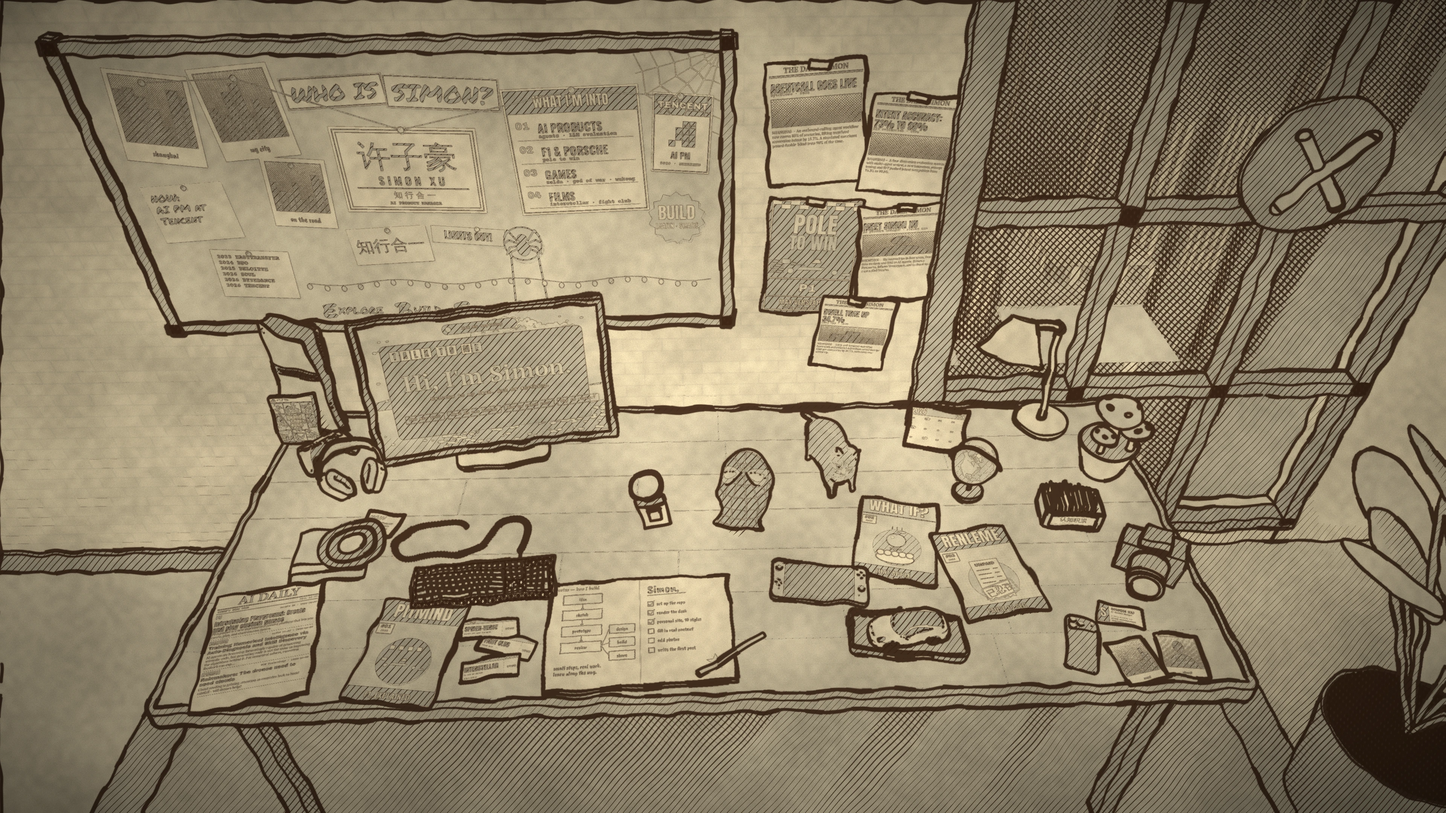
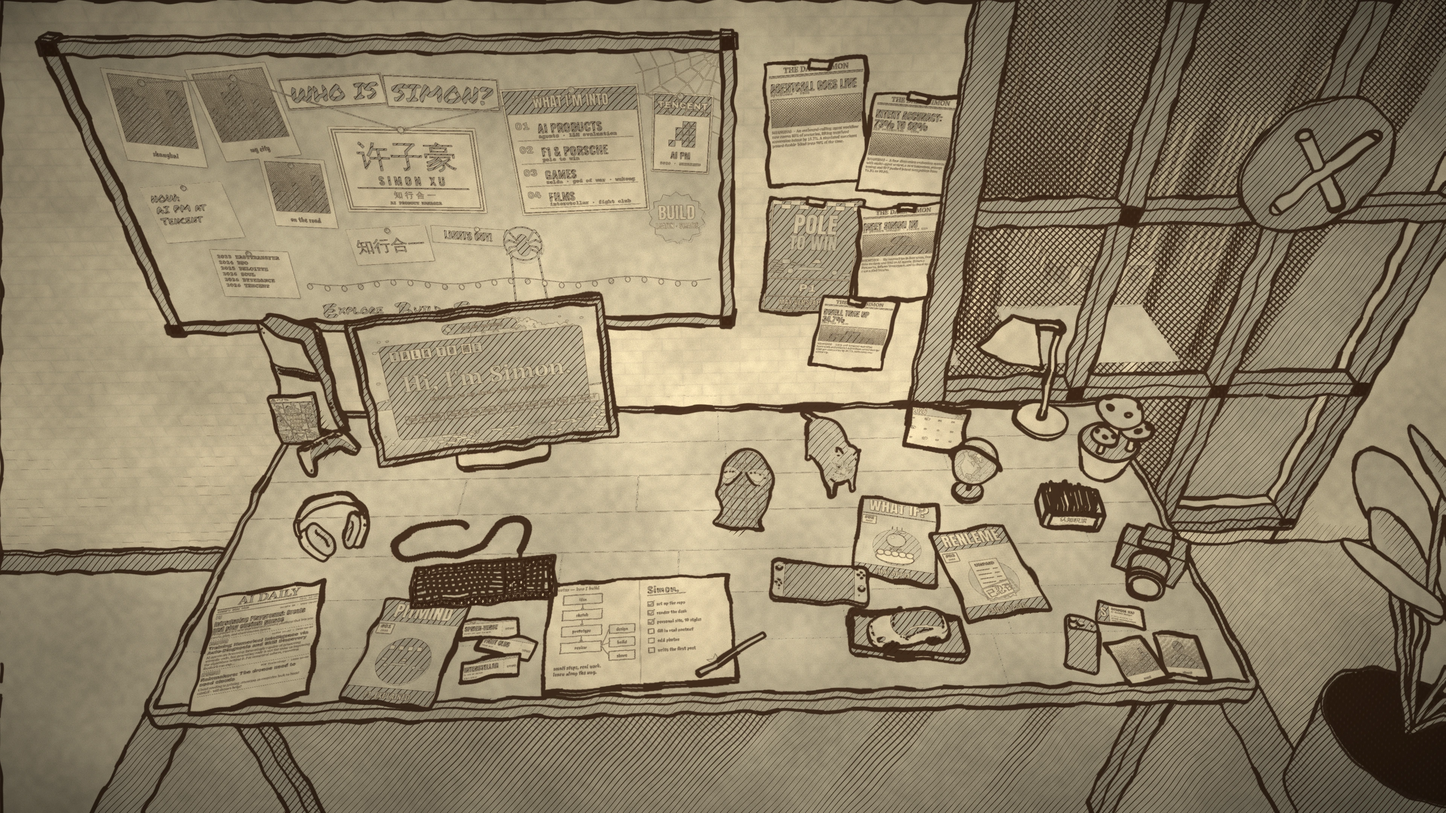
Declutter repeated desk items (#5)
* Scaffold Next.js personal site based on EdwinjJ1/personal-website

Static-export Next.js 15 site with home, about, projects, blog and
photography pages, a zh/en language switch, light/dark themes with the
WebGL starfield backdrop, placeholder content in src/data, and a GitHub
Pages deploy workflow.

Claude-Session: https://claude.ai/code/session_019ggxabgDhCYUh62LeLnHLD

* Switch to the 3D desk site from EdwinjJ1/personal-website 002

Replace the Next.js portfolio with the Blender desk + ten-style WebGL
site. The original author's text, photos, project art, logo and resume
details are removed and replaced with placeholders; hotspots are renamed
to generic ones (zine-1..4, badge, plant, table-model) and the club mascot
is dropped. Textures now use bundled OFL fonts so they build on any OS,
web fonts are self-hosted, and the chat falls back to canned answers until
a Worker is deployed. Renders (site/assets/styles, hot.png, scene.json)
are not generated yet.

Claude-Session: https://claude.ai/code/session_019ggxabgDhCYUh62LeLnHLD

* Remove the original author's journal API address and keychain name

Claude-Session: https://claude.ai/code/session_019ggxabgDhCYUh62LeLnHLD

* Redesign desk objects for a self-showcase site

Remove the trophies, GitHub city, round-table model and echo puck. Add a
mini race track with a Porsche, a year-in-review calendar, a globe, movie
ticket stubs, an index-card box for podcasts and WeChat reads, a sleeping
[…]

Changed region(s): [[0.1875, 0.5273, 0.2812, 0.7134], [0.4375, 0.5583, 0.4688, 0.6514]]

diff --git a/site/js/content.js b/site/js/content.js
@@ -25,17 +25,14 @@ export const HOTS = {
   keyboard: { action: 'chat' },
   mask: { action: 'style' },
   'zine-1': { panel: 'project1' },
-  phone: { panel: 'project3' },
   'zine-2': { panel: 'project2' },
   'zine-3': { panel: 'project3' },
   notebook: { panel: 'blog' },
   plant: { panel: 'interests' },
-  badge: { panel: 'work' },
   news: { panel: 'news' },
   photos: { panel: 'photos' },
   games: { panel: 'games' },
   music: { panel: 'music' },
-  headphones: { panel: 'music' },
   contact: { panel: 'contact' },
   camera: { panel: 'photos' },
   cars: { panel: 'cars' },
@@ -44,7 +41,6 @@ export const HOTS = {
   movies: { panel: 'movies' },
   cards: { panel: 'knowledge' },
   cat: { panel: 'cat' },
-  now: { panel: 'now' },
 };
 
 export const LABELS = {
@@ -54,17 +50,14 @@ export const LABELS = {
   keyboard: { zh: '点键盘，跟我聊', en: 'Click the keyboard. Talk to me.' },
   mask: { zh: '换一个宇宙', en: 'Switch universe' },
   'zine-1': { zh: 'PitMind · F1 AI 搭子', en: 'PitMind · F1 AI companion' },
-  phone: { zh: '忍了么 · iOS App', en: 'RenLeMe · iOS app' },
   'zine-2': { zh: '《假如那颗苹果》· AI 短片', en: 'What If That Apple · AI short' },
   'zine-3': { zh: '忍了么 · iOS App', en: 'RenLeMe · iOS app' },
   notebook: { zh: '博客', en: 'Blog' },
   plant: { zh: '兴趣爱好', en: 'Interests' },
-  badge: { zh: '实习 / 工作', en: 'Work' },
   news: { zh: '今日新闻', en: 'News desk' },
   photos: { zh: '摄影', en: 'Photography' },
   games: { zh: '我喜欢的游戏', en: 'Games I love' },
-  music: { zh: '放张唱片', en: 'Play a record' },
-  headphones: { zh: '戴上耳机', en: 'Put the headphones on' },
+  music: { zh: '戴上耳机', en: 'Put the headphones on' },
   contact: { zh: '联系我', en: 'Contact' },
   camera: { zh: '摄影', en: 'Photography' },
   cars: { zh: '保时捷和赛车', en: 'Porsche & racing' },
@@ -73,7 +66,6 @@ export const LABELS = {
   movies: { zh: '喜欢的电影和剧', en: 'Films & shows' },
   cards: { zh: '认知积累：播客和公众号', en: 'Ideas I collect: podcasts & reads' },
   cat: { zh: '小布（我的美短）', en: 'Xiaobu, my cat' },
-  now: { zh: '最近在做什么', en: 'Now' },
 };
 
 const L = (zh, en) => ({ zh, en });

diff --git a/site/js/app.js b/site/js/app.js
@@ -1,13 +1,13 @@
 // 入口：状态、交互、面板（静态 + 从旧站导入的内容）、对话、阅读模式。画面交给 stage.js，坐标换算在 geometry.js。
 import { groupAlbums } from './albums.js';
 import { streamChat } from './chat.js';
-import { ALBUMS, APPLE_MUSIC, CHAT, DYNAMIC, HOTS, INTRO_ORDER, LABELS, NOTEBOOK, PANELS, STYLES, UI, appleEmbed, matchTopic } from './content.js?v=20261030-1';
+import { ALBUMS, APPLE_MUSIC, CHAT, DYNAMIC, HOTS, INTRO_ORDER, LABELS, NOTEBOOK, PANELS, STYLES, UI, appleEmbed, matchTopic } from './content.js?v=20261030-2';
 import * as G from './geometry.js?v=20261011-1';
 import { renderGithub, tipLabel } from './github.js';
 import { renderJournal } from './journal.js?v=20261012-2';
 import { coverUrl, createPlayer, fmtTime } from './music.js';
 import { renderNews } from './news.js';
-import { createStage, hexToRgb, styleUrl } from './stage.js?v=20261030-1';
+import { createStage, hexToRgb, styleUrl } from './stage.js?v=20261030-2';
 import { createTour } from './tour.js';
 import { CENTER as WEB_CENTER, earthOf, hostOf, webLayout } from './web.js';
 
@@ -1003,12 +1003,12 @@ async function boot() {
   applyLang();
   buildHud();
   try {
-    scene = await (await fetch('assets/scene.json?v=20261030-1')).json();
+    scene = await (await fetch('assets/scene.json?v=20261030-2')).json();
     img = { w: scene.width, h: scene.height };
     hotByIndex = Object.entries(scene.hots).reduce((arr, [name, h]) => { const next = arr.slice(); next[h.index] = name; return next; }, []);
     stage = createStage(dom.canvas, img);
     progress(0.2);
-    const hotImg = await new Promise((res, rej) => { const im = new Image(); im.onload = () => res(im); im.onerror = rej; im.src = 'assets/hot.png?v=20261030-1'; });
+    const hotImg = await new Promise((res, rej) => { const im = new Image(); im.onload = () => res(im); im.onerror = rej; im.src = 'assets/hot.png?v=20261030-2'; });
     const cv = document.createElement('canvas');
     cv.width = hotImg.width;
     cv.height = hotImg.height;

diff --git a/site/index.html b/site/index.html
@@ -7,13 +7,13 @@
   <meta name="description" content="Simon Xu 的个人网站：一张桌子，十个宇宙。">
   <meta property="og:title" content="Simon Xu · One desk, ten universes">
   <meta property="og:description" content="Click the mask to switch universe.">
-  <meta property="og:image" content="assets/styles/comic@1x.webp?v=20261030-1">
+  <meta property="og:image" content="assets/styles/comic@1x.webp?v=20261030-2">
   <meta name="theme-color" content="#14121c">
   <link rel="stylesheet" href="css/fonts.css">
-  <link rel="stylesheet" href="css/main.css?v=20261030-1">
+  <link rel="stylesheet" href="css/main.css?v=20261030-2">
   <link rel="stylesheet" href="css/news.css">
   <link rel="stylesheet" href="css/mobile.css?v=20261011-1">
-  <link rel="preload" as="image" href="assets/styles/comic@1x.webp?v=20261030-1">
+  <link rel="preload" as="image" href="assets/styles/comic@1x.webp?v=20261030-2">
 </head>
 <body>
   <div id="loader" role="status">
@@ -64,6 +64,6 @@
     </div>
   </noscript>
 
-  <script type="module" src="js/app.js?v=20261030-1"></script>
+  <script type="module" src="js/app.js?v=20261030-2"></script>
 </body>
 </html>

diff --git a/site/js/stage.js b/site/js/stage.js
@@ -79,7 +79,7 @@ function loadImage(src) {
 }
 
 /** 一个风格的贴图地址；hi=true 是全尺寸。手机上的小地图也用它，跟舞台走同一份缓存。 */
-export const styleUrl = (id, hi = false, base = 'assets/') => `${base}styles/${id}${hi ? '' : '@1x'}.webp?v=20261030-1`;
+export const styleUrl = (id, hi = false, base = 'assets/') => `${base}styles/${id}${hi ? '' : '@1x'}.webp?v=20261030-2`;
 
 export function hexToRgb(hex) {
   const h = hex.replace('#', '');

diff --git a/blender/layout.py b/blender/layout.py
@@ -3,9 +3,9 @@
 俯视机位、铺满物件、墙上软木板 + 剪报，右侧黑钢框落地窗外是楼群。
 每个可点的东西带 hot 名字，前端按它开面板：
   board / press / monitor / keyboard / mask（切换宇宙）/ zine-1 / zine-2 / zine-3（三个项目）
-  notebook（博客）/ phone / plant（兴趣）/ camera + photos（摄影）/ badge（工作）/ news（报纸）/ games（PS5、Switch）
-  music（唱片）/ headphones（耳机，也是歌单）/ contact（名片）/ fries / cars（显示器前的赛道和保时捷）/ calendar（年度回顾）/ globe（去过的地方）
-  movies（电影票根）/ cards（卡片盒：认知积累）/ cat（美短）/ now（NOW 便签）
+  notebook（博客）/ plant（兴趣）/ camera + photos（摄影）/ news（报纸）/ games（PS5、Switch）
+  music（AirPods：歌单）/ contact（名片和 iPhone）/ cars（911 车模）/ calendar（年度回顾）/ globe（去过的地方）
+  movies（电影票根）/ cards（卡片盒：认知积累）/ cat（美短）
 """
 import json
 import math
@@ -165,7 +165,6 @@ def build_monitor():
     slab("mon_base", 0.26, 0.17, 0.012, 0.03, (0, 0.05, 0.006), silver, hot="monitor").parent = root
     lt = light("screen_light", "AREA", "screen", 6, "#ffb07a", (0, -0.06, 0), rot=(-math.pi / 2, 0, 0), size=0.6, size_y=0.36)
     lt.parent = tilt
-    decal("sticky_a", 0.095, 0.08, (-0.87, 0.045), "now.png", yaw=-9, hot="now")   # NOW 便签：最近在做什么
 
 
 def build_track():
@@ -184,16 +183,9 @@ def build_track():
 def build_left():
     # PS5 Slim + GTA VI + DualSense（Roberto Domínguez，CC BY 4.0）：立在桌子左后角，点开是游戏
     glb("ps5", "models/ps5.glb", 0.33, (-1.14, 0.40, T), rot=(0, 0, R(18)), hot="games")
-    # AirPods Max（Mr.Philin，CC BY 4.0）：立在显示器左前方，点开和唱片一样是歌单
-    glb("airpods", "models/airpods_max.glb", 0.17, (-0.96, 0.17, T), rot=(0, 0, R(24)), hot="headphones")
-    # 唱片：从封套里抽出来一半，点开是黑胶播放器
-    sx, sy, vx, vy = -0.968, -0.06, -0.923, -0.03
-    box("vinyl_sleeve", (0.18, 0.18, 0.004), (sx, sy, T + 0.004), M("vinyl_sleeve", "#8e4ec6", 0.7), rot=(0, 0, R(8)), hot="music")
-    box("vinyl_stripe", (0.18, 0.03, 0.001), (sx + 0.006, sy - 0.045, T + 0.0066), M("vinyl_stripe", "#f5b301", 0.6), rot=(0, 0, R(8)), hot="music")
-    cyl("vinyl_disc", 0.085, 0.003, (vx, vy, T + 0.0085), M("vinyl_disc", "#16161a", 0.3), seg=64, hot="music")
-    torus("vinyl_groove", 0.061, 0.0012, (vx, vy, T + 0.0098), M("vinyl_groove", "#34363f", 0.3), seg=64, sub=6, hot="music")
-    cyl("vinyl_label", 0.034, 0.001, (vx, vy, T + 0.0105), M("vinyl_label", "#f5b301", 0.5), seg=40, hot="music")   # 不挖中心孔：墨线一描就把标签糊掉了
-        # 键盘（Diego Clemente 的 Vintage Keyboard，CC BY 4.0），不要鼠标
+    # AirPods Max（Mr.Philin，CC BY 4.0）：立在键盘左边，点开是 Apple Music 歌单
+    glb("airpods", "models/airpods_max.glb", 0.17, (-0.95, -0.04, T), rot=(0, 0, R(24)), hot="music")
+    # 键盘（Diego Clemente 的 Vintage Keyboard，CC BY 4.0），不要鼠标
     glb("kb", "models/keyboard.glb", 0.42, (-0.60, -0.09, T + 0.001), rot=(0, 0, R(5)), hot="keyboard")
     # 报纸（新闻）+ 项目一的刊物
     decal("newspaper", 0.25, 0.327, (-1.05, -0.34), "newspaper.png", yaw=11, hot="news", thick=0.007, edge="#e8e2d0")
@@ -202,12 +194,6 @@ def build_left():
     decal("ticket_a", 0.13, 0.055, (-0.50, -0.42), "ticket_0.png", yaw=9, hot="movies", thick=0.0006, edge="#f2e6c8")
     decal("ticket_b", 0.13, 0.055, (-0.47, -0.36), "ticket_1.png", yaw=-14, z=0.0012, hot="movies", thick=0.0006, edge="#f2e6c8")
     decal("ticket_c", 0.13, 0.055, (-0.52, -0.31), "ticket_2.png", yaw=4, z=0.0024, hot="movies", thick=0.0006, edge="#f2e6c8")
-    # 工牌（工作 / 实习）
-    bx, by, yaw = -0.14, 0.07, 14
-    box("badge", (0.075, 0.105, 0.004), (bx, by, T + 0.004), M("badge", "#ffffff", 0.5), rot=(0, 0, R(yaw)), hot="badge")
-    box("badge_head", (0.075, 0.03, 0.001), (bx - 0.009, by + 0.036, T + 0.0066), M("badge_head", "#111216", 0.5), rot=(0, 0, R(yaw)), hot="badge")
-    box("badge_photo", (0.034, 0.038, 0.001), (bx + 0.003, by - 0.012, T + 0.0066), M("badge_photo", "#bfe6ff", 0.5), rot=(0, 0, R(yaw)), hot="badge")
-    torus("badge_strap", 0.055, 0.004, (bx - 0.025, by + 0.10, T + 0.005), M("strap", "#2b6be4", 0.6), hot="badge", seg=28, sub=6).scale = (0.8, 1.0, 1.0)
 
 
 def build_center():
@@ -285,8 +271,8 @@ def build_right():
     # 刊物三本，扇形摊开
     decal("zine_roundtable", 0.205, 0.28, (0.50, -0.05), "zine_roundtable.png", yaw=-13, hot="zine-2", thick=0.006)
     decal("zine_athena", 0.205, 0.28, (0.71, -0.17), "zine_athena.png", yaw=9, hot="zine-3", thick=0.006, z=0.008)
-    # iPhone 17 Pro（zhe_kan，CC BY-NC-SA 4.0；原模型是正反两台，只留背面那台）：背面朝上平放，点开是 iOS App 项目
-    glb("phone", "models/iphone.glb", 0.15, (0.88, -0.39, T), rot=(0, 0, R(-18)), pre=(R(-90), 0, 0), hot="phone", keep=lambda x, y, z: x < 0)
+    # iPhone 17 Pro（zhe_kan，CC BY-NC-SA 4.0；原模型是正反两台，只留背面那台）：背面朝上平放，点开是联系方式
+    glb("phone", "models/iphone.glb", 0.15, (0.88, -0.39, T), rot=(0, 0, R(-18)), pre=(R(-90), 0, 0), hot="contact", keep=lambda x, y, z: x < 0)
     # 相机
     cxm, cym, cyaw = 1.12, -0.16, R(-28)
     cam_b = M("cam_body", "#22242a", 0.5)

diff --git a/pipeline/textures.py b/pipeline/textures.py
@@ -456,16 +456,6 @@ def car_plaque(w=880, h=112):
     return im
 
 
-def now_note(w=380, h=320):
-    """显示器旁边的 NOW 便签：最近在做 / 在学 / 在玩。"""
-    s = card(w, h, YELLOW, seed=44)
-    d = ImageDraw.Draw(s)
-    d.text((24, 16), "NOW", font=font("marker", 76), fill=RED)
-    lines_text(d, (26, 120), "AI PM @ Tencent\nbuilding: F1 site\nwaiting: Xiaobu", "marker", 34)
-    return s
-
-
-# ───────────────────────── 项目刊物（桌上的“漫画”） ─────────────────────────
 def zine(title, issue, tagline, bg, accent, motif, w=660, h=900):
     im = paper(w, h, bg, grain=6, seed=issue)
     d = ImageDraw.Draw(im, "RGBA")
@@ -759,7 +749,6 @@ def main(out):
     notebook().save(out / "notebook.png")
     screen().save(out / "screen.png")
     small_papers(out)
-    now_note().save(out / "now.png")
     earth().save(out / "earth.png")
     car_plaque().save(out / "car_plaque.png")
     calendar().save(out / "calendar.png")
